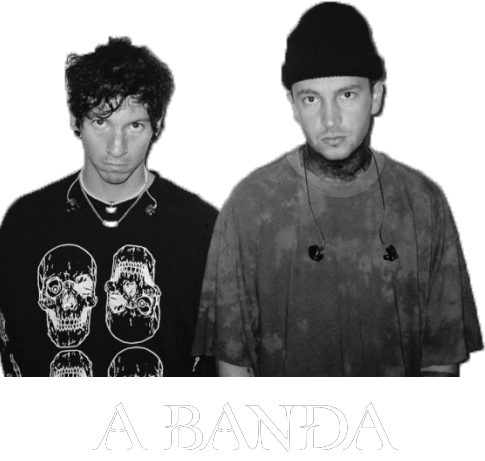
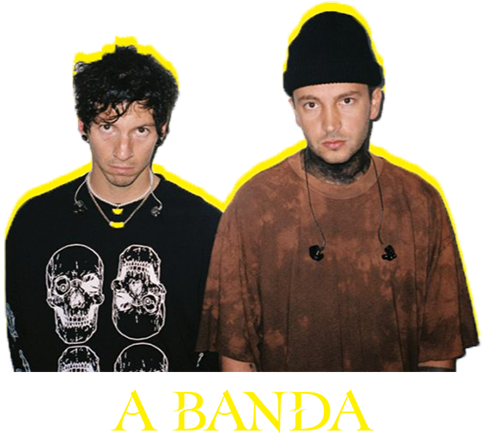
mudanças visuais

diff --git a/styles.css b/styles.css
@@ -1,8 +1,3 @@
-/* *{
-    padding: 0;
-    margin: 0;
-} */
-
 body {
     background-color: #121212;
     font-family: 'Franklin Gothic Medium', 'Arial Narrow', Arial, sans-serif;
@@ -12,15 +7,23 @@ body {
     background-size: cover
 }
 
-a {
+nav a{
     text-decoration: none;
-    color: black;
-    transition: 0.9s ease-in-out;
+    color: rgb(0, 0, 0);
+    transition: 0.6s ease-in-out;
 }
 
-a:hover{
+nav a:hover{
     color: #FFF000;
     transition: 0.1s ease-in-out;
+}
+#insta {
+    text-decoration: none;
+    color: #FFF000;
+}
+
+#insta:hover{
+    color: #000000;
 }
 
 nav {
@@ -28,20 +31,30 @@ nav {
     margin: 0;
     text-align: center;
     background-color: rgba(255, 255, 255, 28%)
+    
+}
+nav img{
+    filter: invert(0%);
 }
 
-ul {
+nav img:hover{
+    filter: invert(100%);
+}
+nav ul {
     list-style-type: none;
     padding: 30px;
     margin: 0px;
     display: flex;
     justify-content: center;
     font-size: 40px;
+    text-decoration: none;
+    color: ;
 }
 
-li {
+nav li {
     opacity: 1;
     margin-inline: 100px;
+    
 }
 
 footer {
@@ -50,13 +63,15 @@ footer {
 
 #imgTransparentes {
     justify-content: center;
-    opacity: 70%;
-    transition: 0.9s ease-in-out;
+    opacity: 100%;
+    transition: 0.5s ease-in-out;
+    filter: saturate(0%);
 }
 
 #imgTransparentes:hover {
     opacity: 100%;
-    transition: 0.3s ease-in-out;
+    transition: 0.1s ease-in-out;
+    filter: saturate(100%);
 }
 
 #logo-bf {
@@ -72,9 +87,3 @@ footer {
     width: 40px;
     height: 60px;
 }
-
-/* 
-@font-face {
-    src: url("Tenebra.otf");
-    font-family: Tenebra;
-} */

diff --git a/home.html b/home.html
@@ -11,7 +11,7 @@
 <body>
 
     <nav>
-        <img id="logo-bf" src="Imagens/toplogo-bf.png" alt="logo blurryface">
+        <a href="https://pbs.twimg.com/media/Ebd7RooWsAATzQz.jpg" target="_blank"><img id="logo-bf" src="Imagens/toplogo-bf.png" alt="logo blurryface"></a>
         <ul>
             <li><a href="home.html">Home</a></li>
             <li><a href="banda.html">Banda</a></li>
@@ -21,7 +21,7 @@
     </nav>
 
     <div style="text-align: center;">
-        <h1>Sua fonte de toda a história de <ins>Twenty One Pilots</ins>.</h1>
+        <h1 id="texto_inicial">Sua fonte de toda a história de <a id="insta" href="https://www.instagram.com/twentyonepilots/" target="_blank">Twenty One Pilots.</a></h1>
         <h2>De fã para fã.</h2>
 
         <div>

diff --git a/banda.html b/banda.html
@@ -10,7 +10,7 @@
 
 <body>
     <nav>
-        <img id="logo-bf" src="Imagens/toplogo-bf.png" alt="logo blurryface">
+        <a href="https://pbs.twimg.com/media/Ebd7RooWsAATzQz.jpg" target="_blank"><img id="logo-bf" src="Imagens/toplogo-bf.png" alt="logo blurryface"></a>
         <ul>
             <li><a href="home.html">Home</a></li>
             <li><a href="banda.html">Banda</a></li>

diff --git a/discografia.html b/discografia.html
@@ -10,7 +10,7 @@
 
 <body>
     <nav>
-        <img id="logo-bf" src="Imagens/toplogo-bf.png" alt="logo blurryface">
+        <a href="https://pbs.twimg.com/media/Ebd7RooWsAATzQz.jpg" target="_blank"><img id="logo-bf" src="Imagens/toplogo-bf.png" alt="logo blurryface"></a>
         <ul>
             <li><a href="home.html">Home</a></li>
             <li><a href="banda.html">Banda</a></li>

diff --git a/historia.html b/historia.html
@@ -10,7 +10,7 @@
 
 <body>
     <nav>
-        <img id="logo-bf" src="Imagens/toplogo-bf.png" alt="logo blurryface">
+        <a href="https://pbs.twimg.com/media/Ebd7RooWsAATzQz.jpg" target="_blank"><img id="logo-bf" src="Imagens/toplogo-bf.png" alt="logo blurryface"></a>
         <ul>
             <li><a href="home.html">Home</a></li>
             <li><a href="banda.html">Banda</a></li>
